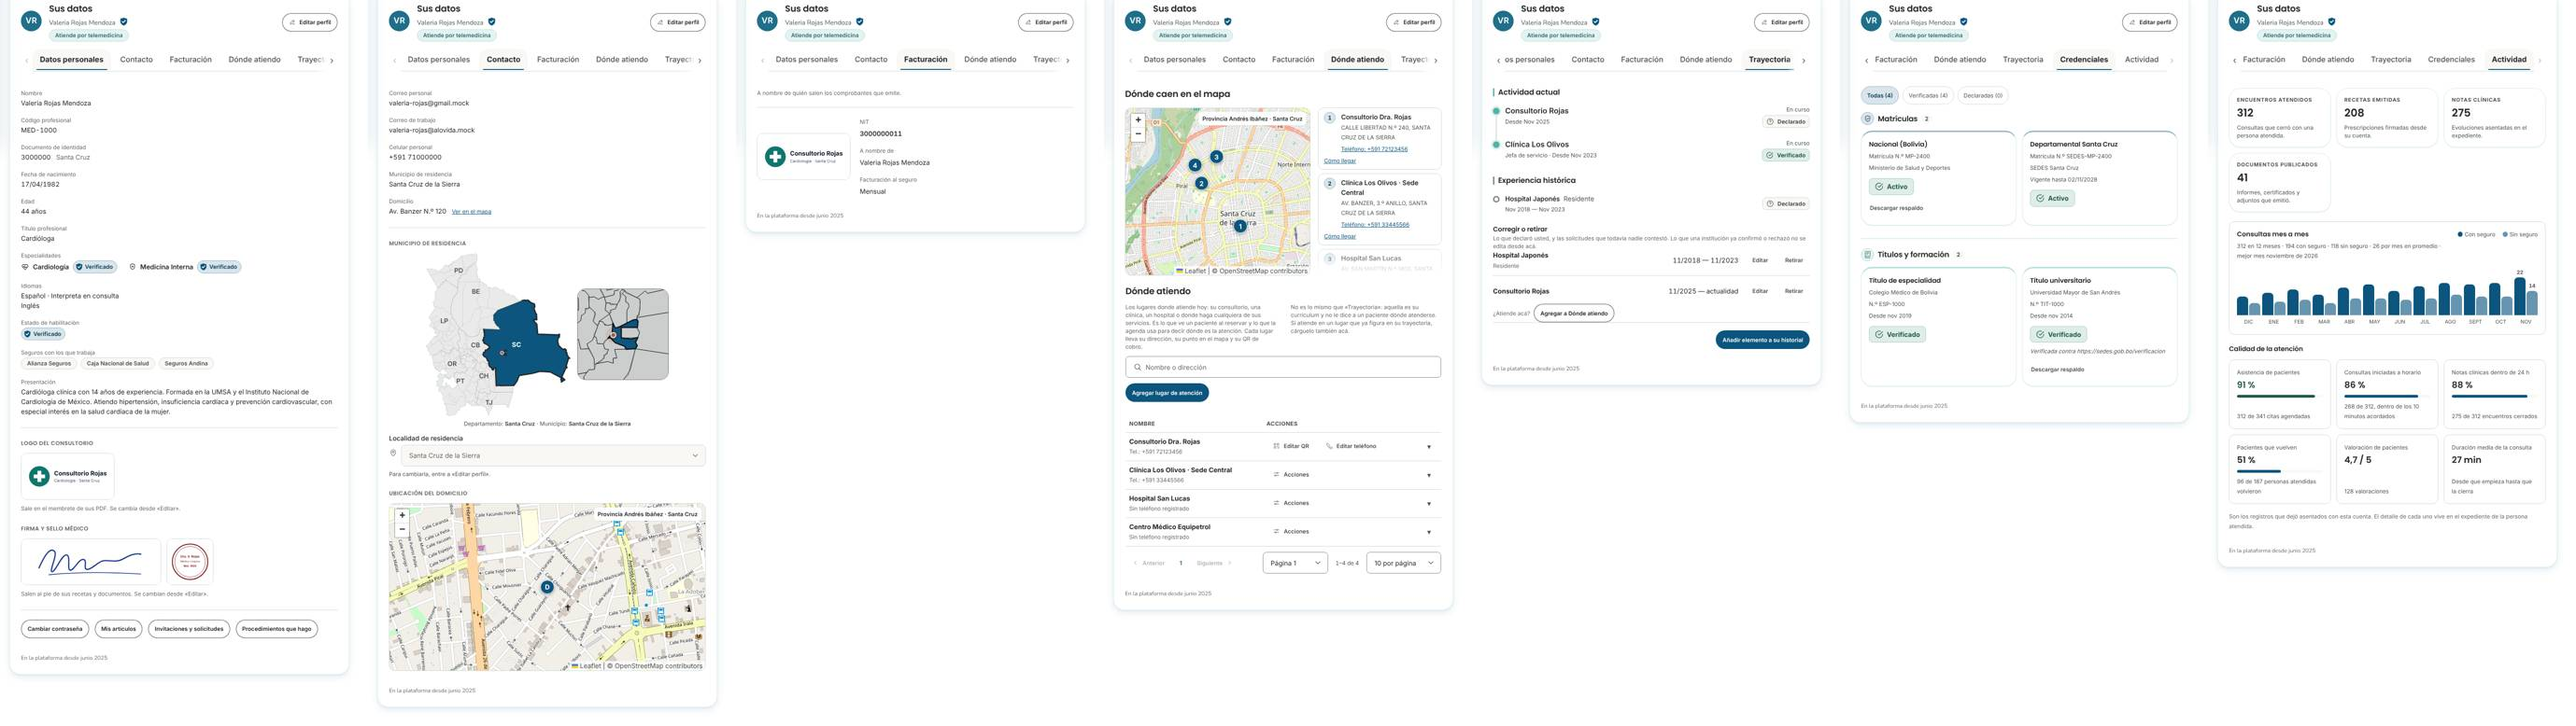
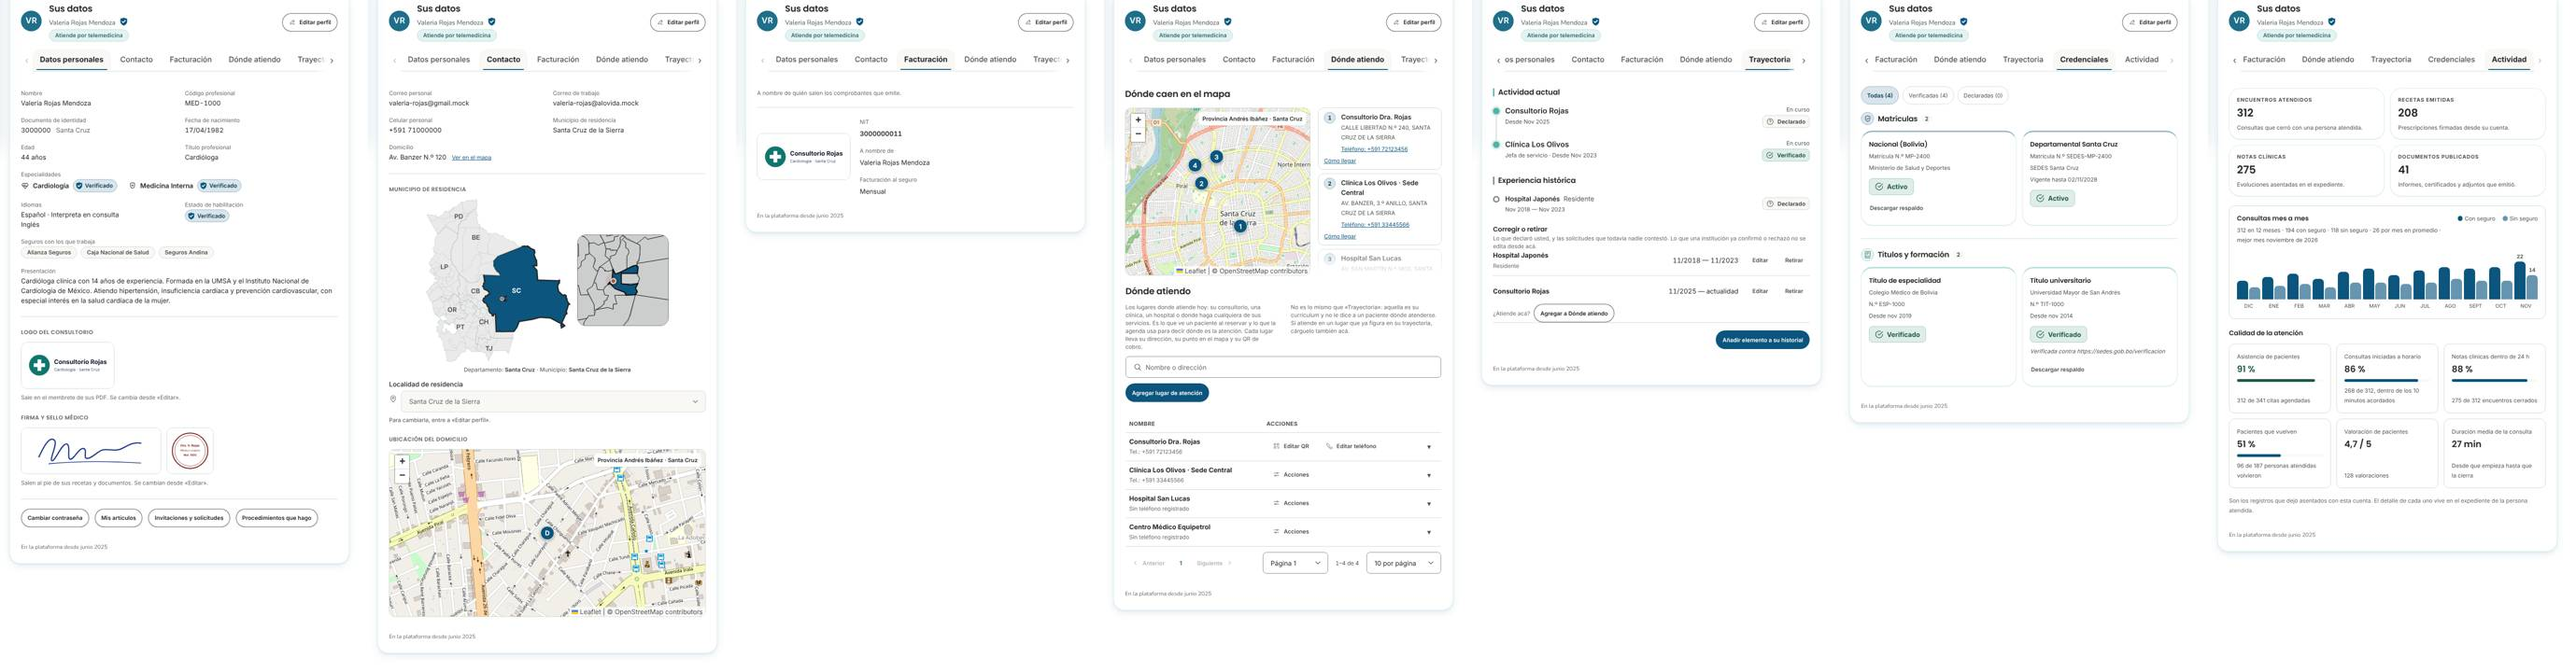
fix(mi-perfil): dos columnas en tablet y ganchos de estilo por clase
La grilla de datos pasa a dos columnas desde 560px (a 768 quedaba una columna
corta a la izquierda). Los estilos embebidos de work-history usan clases
propias en vez de data-testid. Evidencia a 768 px actualizada.

Claude-Session: https://claude.ai/code/session_01979NUmNz3eEjsgNXWhtpqY

diff --git a/src/app/features/account/my-profile/work-history/work-history-embedded.css b/src/app/features/account/my-profile/work-history/work-history-embedded.css
@@ -27,7 +27,6 @@
   border-block-end: none;
 }
 
-
 /* Table cells: from tablet up the short values never break mid-phrase. */
 @media (min-width: 48rem) {
   .historial__aviso-qr,
@@ -38,7 +37,7 @@
   /* Row actions on one line («Configurar QR bancario» · «Editar teléfono»)
      instead of stacked; below tablet they keep wrapping as app-row-actions
      decides. Attribute selector outranks the child's `:host` rule. */
-  app-row-actions[data-testid='sede-acciones'] {
+  app-row-actions.historial__sede-acciones {
     flex-wrap: nowrap;
   }
 
@@ -62,12 +61,12 @@
   /* «Corregir o retirar»: one tidy row per link. Name and role take the free
      space on the left; dates and actions are fixed columns shared by every
      row (subgrid), so they line up instead of floating mid-row. */
-  .historial__lista[data-testid='vinculos-editables'] {
+  .historial__lista.historial__lista--editable {
     grid-template-columns: minmax(0, 1fr) auto auto;
     column-gap: var(--sp-6);
   }
 
-  [data-testid='vinculos-editables'] > .historial__item {
+  .historial__lista--editable > .historial__item {
     display: grid;
     grid-column: 1 / -1;
     grid-template-columns: subgrid;
@@ -75,13 +74,13 @@
   }
 
   /* «¿Atiende acá?» belongs to its row: a second line inside its rule. */
-  [data-testid='vinculos-editables'] .historial__donde-atiende {
+  .historial__lista--editable .historial__donde-atiende {
     grid-column: 1 / -1;
     margin: 0;
   }
 }
 
-[data-testid='vinculos-editables'] .historial__acciones-sede {
+.historial__lista--editable .historial__acciones-sede {
   display: flex;
   flex-wrap: wrap;
   justify-content: flex-end;

diff --git a/src/app/features/account/my-profile/work-history/work-history.html b/src/app/features/account/my-profile/work-history/work-history.html
@@ -338,7 +338,7 @@
         [actions]="accionesDeSede(sede)"
         [fila]="sede.name"
         [attr.data-site-id]="sede.id"
-        data-testid="sede-acciones"
+        class="historial__sede-acciones" data-testid="sede-acciones"
         (actionSelected)="ejecutarAccionDeSede($event, sede)"
       />
     </ng-template>
@@ -419,7 +419,7 @@
         Lo que declaró usted, y las solicitudes que todavía nadie contestó. Lo que una institución
         ya confirmó o rechazó no se edita desde acá.
       </p>
-      <ul class="historial__lista" data-testid="vinculos-editables">
+      <ul class="historial__lista historial__lista--editable" data-testid="vinculos-editables">
         @for (afiliacion of vinculosEditables(); track afiliacion.id) {
           <li class="historial__item">
             <div class="historial__institucion">

diff --git a/src/app/features/account/my-profile/practitioner-profile/practitioner-profile-view/practitioner-sheet-layout.css b/src/app/features/account/my-profile/practitioner-profile/practitioner-profile-view/practitioner-sheet-layout.css
@@ -20,8 +20,16 @@
   }
 }
 
+/* Tablet portrait (sidebar collapsed, ~700px of card): two columns already,
+   so short values don't stack in one ragged column. */
+@media (min-width: 560px) and (max-width: 779px) {
+  .mi-perfil__datos {
+    grid-template-columns: repeat(2, minmax(0, 1fr));
+  }
+}
+
 /* In two columns the insurers row would sit next to a blank cell: fill it. */
-@media (min-width: 780px) and (max-width: 1119px) {
+@media (min-width: 560px) and (max-width: 1119px) {
   .mi-perfil__dato--par {
     grid-column: 1 / -1;
   }
